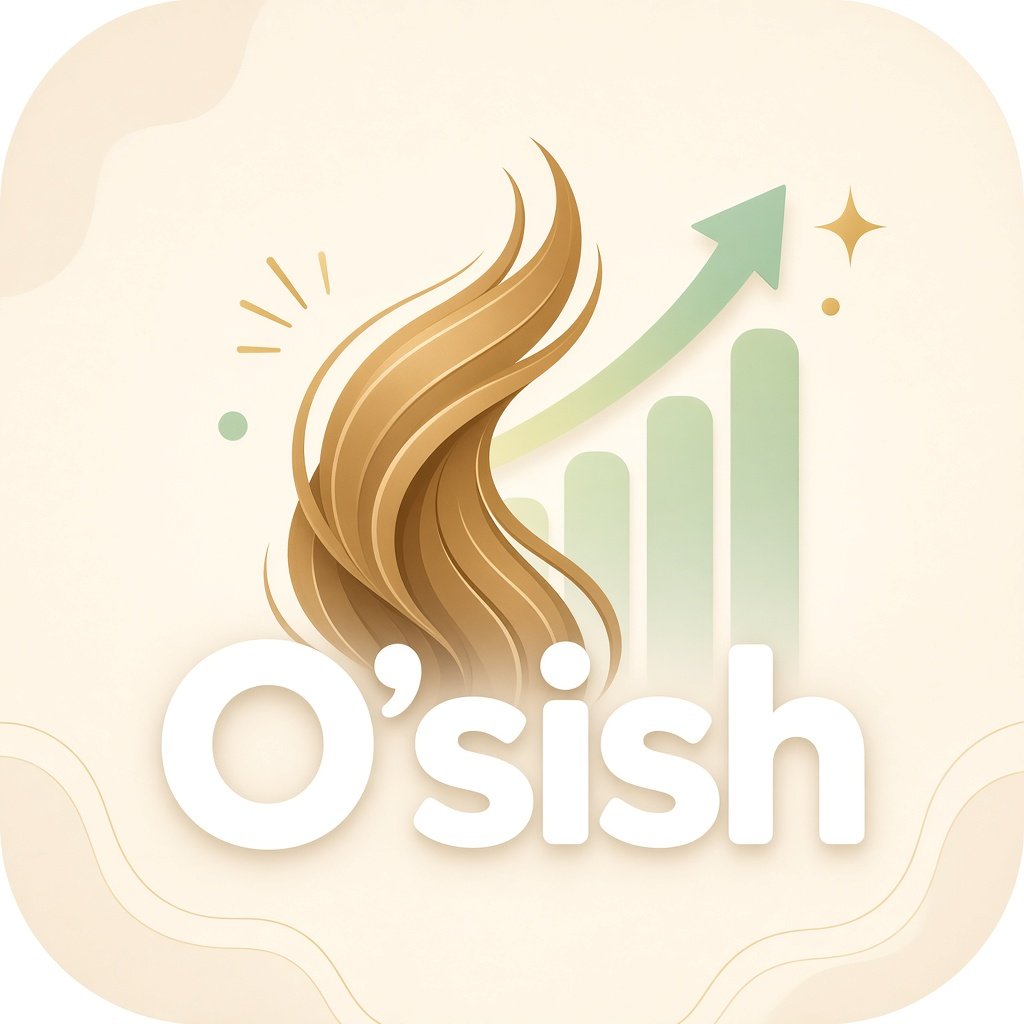
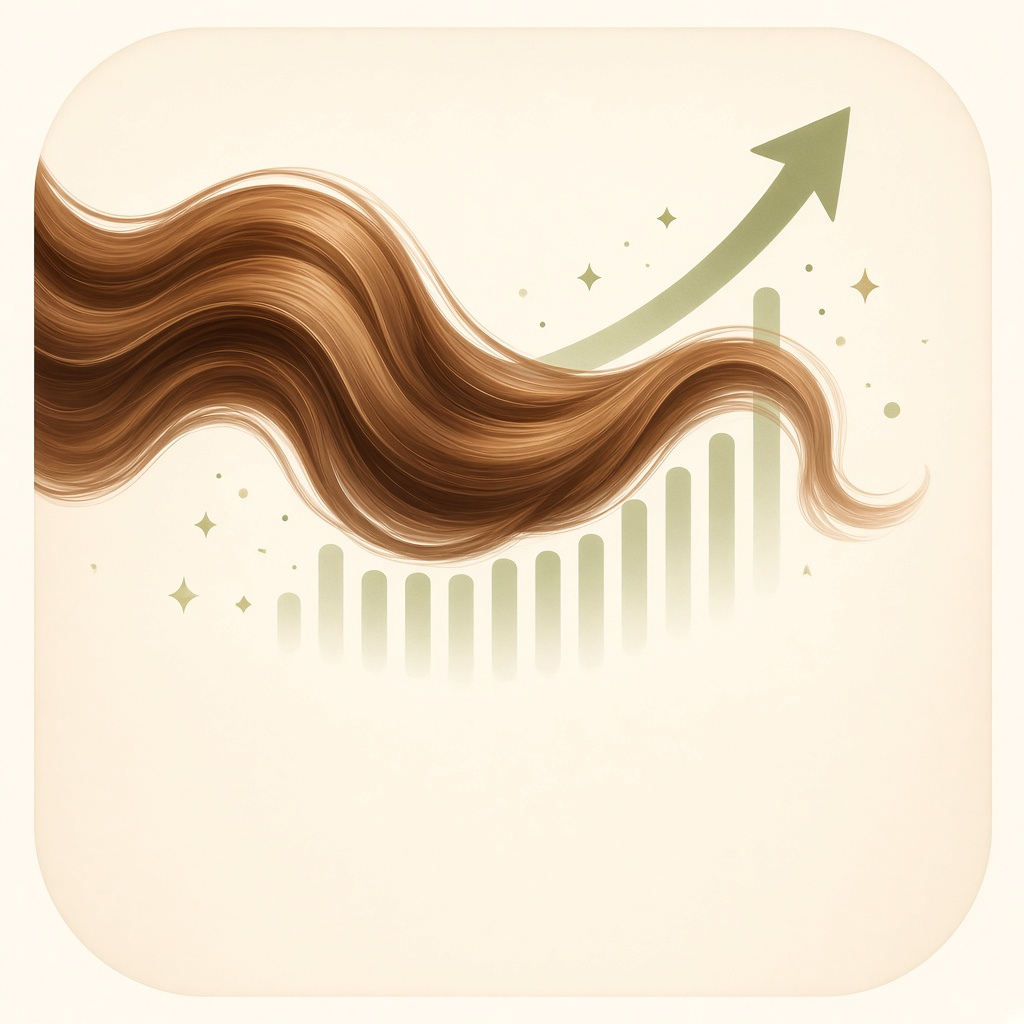
Regenerate care quick tiles without baked text and shrink cards.

diff --git a/apps/mobile/src/screens/morph/MorphCareScreen.tsx b/apps/mobile/src/screens/morph/MorphCareScreen.tsx
@@ -1309,26 +1309,35 @@ export function MorphCareScreen({ navigation, route }: Props) {
                     source={card.img}
                     style={styles.quickActionImg}
                     contentFit="cover"
-                    contentPosition="top"
+                    contentPosition="center"
                   />
                   <LinearGradient
                     colors={[
                       "transparent",
-                      "rgba(250,247,242,0.55)",
-                      "rgba(250,247,242,0.96)",
+                      "rgba(250,247,242,0.35)",
+                      "rgba(250,247,242,0.92)",
                     ]}
-                    locations={[0.42, 0.68, 1]}
+                    locations={[0.5, 0.72, 1]}
                     style={styles.quickActionScrim}
                     pointerEvents="none"
                   />
-                  <View style={styles.quickActionBody} pointerEvents="none">
+                  <View
+                    style={[
+                      styles.quickActionBody,
+                      {
+                        paddingHorizontal: hubLayout.quickActionUi.pad,
+                        paddingBottom: hubLayout.quickActionUi.pad,
+                      },
+                    ]}
+                    pointerEvents="none"
+                  >
                     <Text
                       style={[
                         styles.quickActionLabel,
                         {
                           color: card.labelColor,
-                          fontSize: Math.round(hubLayout.quickActionW * 0.195),
-                          lineHeight: Math.round(hubLayout.quickActionW * 0.22),
+                          fontSize: hubLayout.quickActionUi.labelFs,
+                          lineHeight: hubLayout.quickActionUi.labelFs + 2,
                         },
                       ]}
                       numberOfLines={1}
@@ -1929,10 +1938,9 @@ const styles = StyleSheet.create({
     elevation: 2,
     backgroundColor: "#F0F0F0",
   },
-  /** Pastki baked-in matnni kesish — overlay label bir xil qatorda. */
+  /** Yangi tile rasmlar — matnsiz; label overlay bir xil qatorda. */
   quickActionImg: {
     ...StyleSheet.absoluteFillObject,
-    height: "118%",
   },
   quickActionScrim: {
     ...StyleSheet.absoluteFillObject,
@@ -1941,8 +1949,6 @@ const styles = StyleSheet.create({
   quickActionBody: {
     ...StyleSheet.absoluteFillObject,
     justifyContent: "flex-end",
-    paddingHorizontal: scale(10),
-    paddingBottom: verticalScale(9),
     zIndex: 2,
   },
   quickActionLabel: {

diff --git a/apps/mobile/src/lib/weather-care-tips.ts b/apps/mobile/src/lib/weather-care-tips.ts
@@ -317,16 +317,16 @@ export function careHubLayout(
   const searchCatGap = rs(8, scale);
   const gaps = rs(10, scale) + weatherNudge + searchCatGap;
   const quickActionWCap =
-    width < 360 ? rs(108, scale) : width < 400 ? rs(118, scale) : rs(128, scale);
+    width < 360 ? rs(96, scale) : width < 400 ? rs(104, scale) : rs(112, scale);
   const quickActionW = clamp(
-    Math.round(rs(112, scale)),
-    width < 360 ? rs(100, scale) : rs(106, scale),
+    Math.round(rs(100, scale)),
+    width < 360 ? rs(88, scale) : rs(94, scale),
     quickActionWCap,
   );
   const quickActionH = clamp(
-    Math.round(quickActionW * 0.98),
-    rs(96, scale),
-    rs(124, scale),
+    Math.round(quickActionW * 0.96),
+    rs(86, scale),
+    rs(108, scale),
   );
   /** SOS + shelf + growth + album — bitta gorizontal qator (Yandex Go promo uslubi). */
   const quickActionBlock = quickActionH + rs(6, scale);
@@ -486,11 +486,11 @@ export function careHubLayout(
       };
     })(),
     quickActionUi: (() => {
-      const w = Math.max(96, quickActionW);
-      const k = clamp(w / 112, 0.55, 1);
+      const w = Math.max(88, quickActionW);
+      const k = clamp(w / 100, 0.55, 1);
       return {
-        labelFs: clamp(Math.round(15 * k), 13, 16),
-        pad: clamp(Math.round(9 * k), 7, 11),
+        labelFs: clamp(Math.round(14 * k), 12, 15),
+        pad: clamp(Math.round(8 * k), 6, 9),
       };
     })(),
   };
